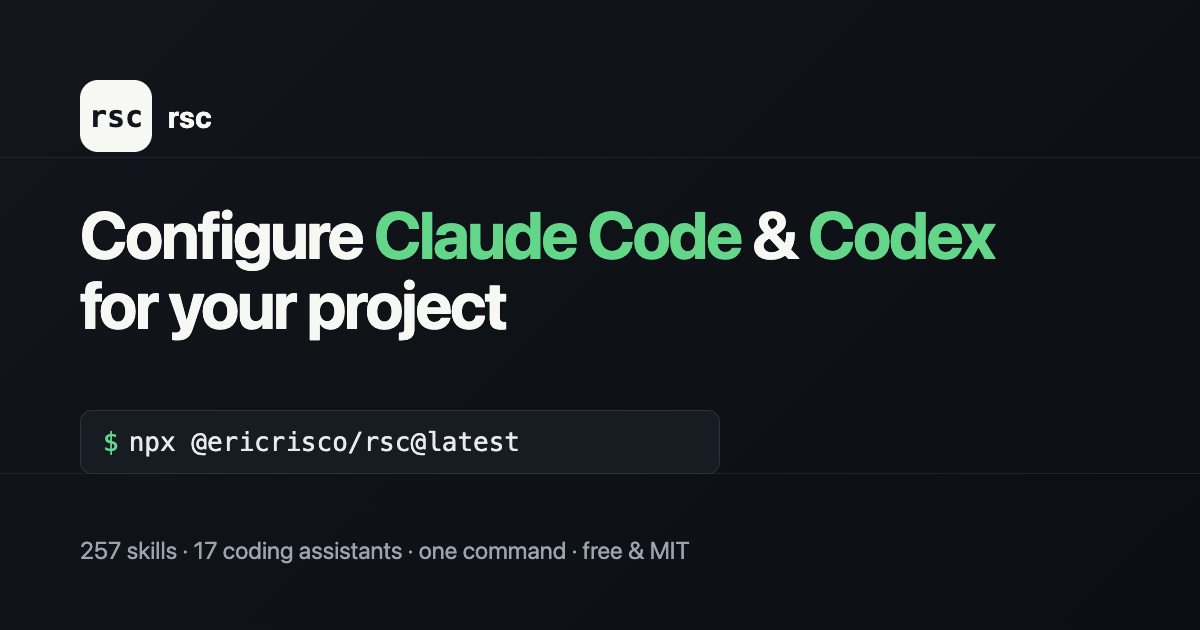
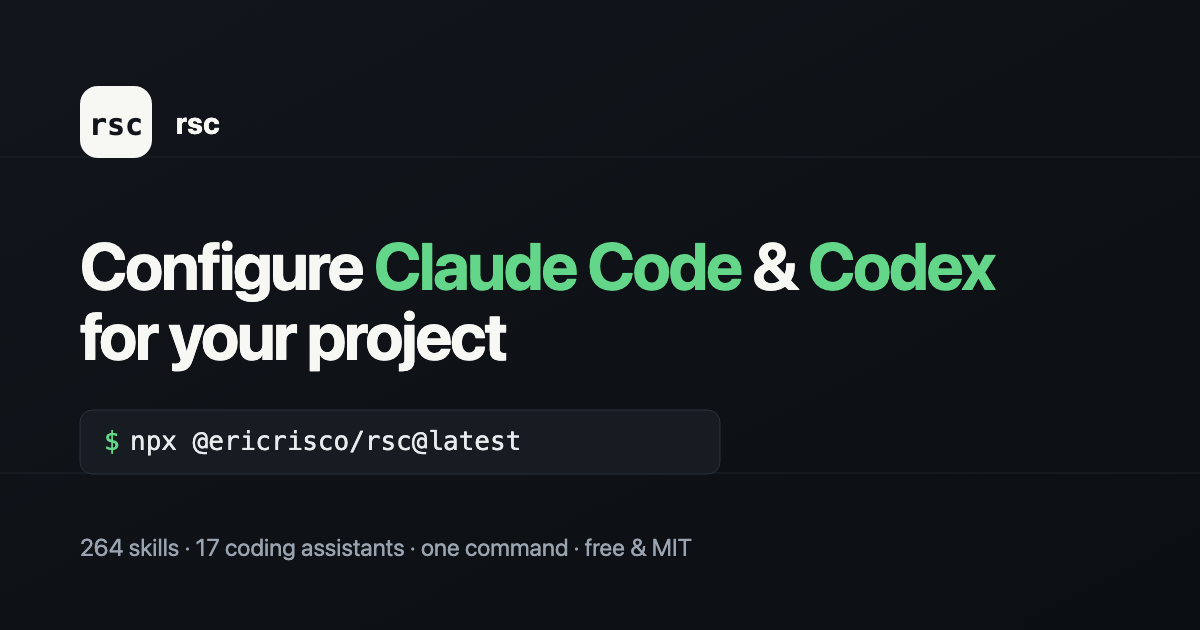
chore(readme): land the pending cover + badges, and correct the skill count to 264
These three files had been sitting uncommitted across three feature PRs, deliberately
left out of each because they were not part of those deliveries. Landing them now,
verified rather than assumed:

- site/og.svg said '257 skills'; the manifest says 264. Corrected.
- site/og.png re-rendered at 1200x630 and inspected visually: reads '264 skills · 17
  coding assistants · one command · free & MIT', consistent with the svg.
- README.md swaps the ASCII wordmark for the cover image and adds npm/downloads/skills/
  license/stars badges. The '#the-catalog' anchor the skills badge points at exists
  (README.md:240).

site/cover.html and site/diagram.svg are left untracked: nothing references them and
they are someone else's work in progress.

diff --git a/README.md b/README.md
@@ -1,18 +1,14 @@
 <div align="center">
 
-```
-  ████████    ███████    ███████ 
-  ██    ██   ██         ██    ██ 
-  ██    ██   ██         ██       
-  ██    ██   ██         ██       
-  ████████    ██████    ██       
-  ██  ██           ██   ██       
-  ██   ██          ██   ██       
-  ██    ██         ██   ██    ██ 
-  ██    ██   ███████     ███████ 
-```
+<img src="https://raw.githubusercontent.com/ericrisco/rsc-harness/main/site/og.png" alt="rsc — 264 agent skills, one CLI, zero bloat" width="820">
 
 # `rsc` — 264 agent skills, one CLI, zero bloat
+
+[![npm](https://img.shields.io/npm/v/@ericrisco/rsc?color=63d68a&labelColor=12161c&label=npm)](https://www.npmjs.com/package/@ericrisco/rsc)
+[![downloads](https://img.shields.io/npm/dm/@ericrisco/rsc?color=63d68a&labelColor=12161c&label=downloads)](https://www.npmjs.com/package/@ericrisco/rsc)
+[![skills](https://img.shields.io/badge/skills-264-63d68a?labelColor=12161c)](#the-catalog)
+[![license](https://img.shields.io/badge/license-MIT-63d68a?labelColor=12161c)](LICENSE)
+[![stars](https://img.shields.io/github/stars/ericrisco/rsc-harness?color=63d68a&labelColor=12161c)](https://github.com/ericrisco/rsc-harness/stargazers)
 
 **A self-recommending skill catalog for 17 coding assistants** — Claude Code,
 Codex, GitHub Copilot, Cursor, Gemini, Windsurf, Cline, Antigravity, Zed and more.
